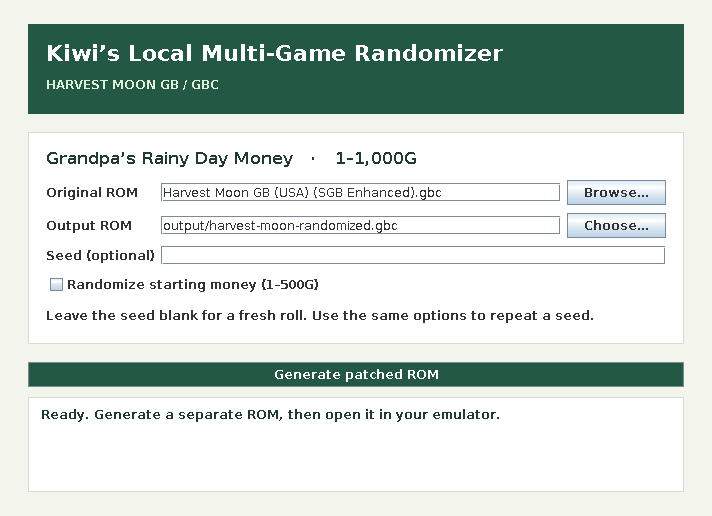
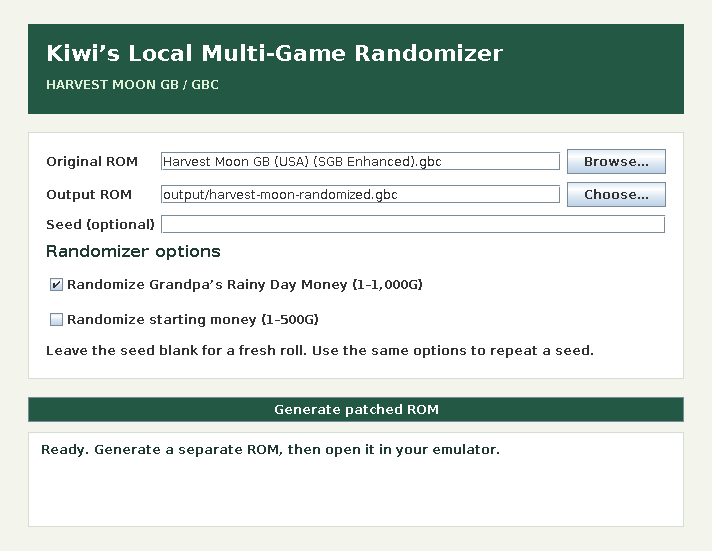
Make Harvest Moon randomization options independent

Changed region(s): [[0.0309, 0.031, 0.9579, 0.6512], [0.0309, 0.6822, 0.9579, 0.8372]]

diff --git a/java/test/kiwi/RandomizerTest.java b/java/test/kiwi/RandomizerTest.java
@@ -41,42 +41,56 @@ public final class RandomizerTest {
             check(expected.getMessage().contains("Unsupported ROM"), "wrong ROM message");
         }
         Path temp = Files.createTempDirectory("kiwi-java-test");
-        Path output = temp.resolve("test.gbc");
-        Path randomized = temp.resolve("randomized.gbc");
         try {
-            runFormTest(output, false);
-            check(hash(Files.readAllBytes(output)).equals(
[1 lines of base64/hex data omitted]
-            runFormTest(randomized, true);
-            check(hash(Files.readAllBytes(randomized)).equals(
[1 lines of base64/hex data omitted]
+            testOptionPair(temp, false, false, originalDigest);
+            testOptionPair(temp, false, true,
[1 lines of base64/hex data omitted]
+            testOptionPair(temp, true, false,
[1 lines of base64/hex data omitted]
+            testOptionPair(temp, true, true,
[1 lines of base64/hex data omitted]
             check(hash(HarvestMoon.patch(original, 945, 1)).equals(
[1 lines of base64/hex data omitted]
             check(hash(Files.readAllBytes(rom)).equals(originalDigest), "original untouched");
         } finally {
-            Files.deleteIfExists(output);
-            Files.deleteIfExists(randomized);
             Files.deleteIfExists(temp);
         }
         System.out.println("Java seed, ROM patch, and Swing form tests passed.");
     }
 
-    private static void runFormTest(Path output, boolean randomizeStartingMoney) throws Exception {
+    private static void testOptionPair(Path temp, boolean rainyDayMoney, boolean startingMoney,
+                                       String expectedDigest) throws Exception {
+        Path output = temp.resolve("test.gbc");
+        try {
+            runFormTest(output, rainyDayMoney, startingMoney);
+            check(hash(Files.readAllBytes(output)).equals(expectedDigest), "GUI output matches Python patch");
+        } finally {
+            Files.deleteIfExists(output);
+        }
+    }
+
+    private static void runFormTest(Path output, boolean randomizeRainyDayMoney, boolean randomizeStartingMoney)
+            throws Exception {
         AtomicReference<JButton> button = new AtomicReference<>();
         AtomicReference<JTextArea> result = new AtomicReference<>();
         SwingUtilities.invokeAndWait(() -> {
             JPanel form = new RandomizerApp.Form();
             find(form, JLabel.class, l -> l.getText().equals("Output ROM"), JTextField.class).setText(output.toString());
             find(form, JLabel.class, l -> l.getText().equals("Seed (optional)"), JTextField.class).setText("kiwi-demo");
-            JCheckBox checkbox = find(form, JCheckBox.class, b -> b.getText().startsWith("Randomize starting money"));
-            check(!checkbox.isSelected(), "starting money defaults to off");
-            if (randomizeStartingMoney) checkbox.doClick(0);
+            JCheckBox rainyDay = find(form, JCheckBox.class, b -> b.getText().startsWith("Randomize Grandpa"));
+            JCheckBox starting = find(form, JCheckBox.class, b -> b.getText().startsWith("Randomize starting money"));
+            check(rainyDay.isSelected(), "drawer randomization defaults to on");
+            check(!starting.isSelected(), "starting money randomization defaults to off");
+            if (!randomizeRainyDayMoney) rainyDay.doClick(0);
+            if (randomizeStartingMoney) starting.doClick(0);
             result.set(find(form, JTextArea.class, text -> true));
             button.set(find(form, JButton.class, b -> b.getText().equals("Generate patched ROM")));
             button.get().doClick(0);
         });
         String first = waitForResult(button.get(), result.get());
-        check(first.contains("945G") && first.contains("kiwi-demo"), "GUI shows seed and payout");
+        check(first.contains("kiwi-demo"), "GUI shows seed");
+        check(first.contains(randomizeRainyDayMoney ? "945G (randomized)" : "1000G (unchanged)"),
+                "GUI shows drawer payout and whether it is randomized");
         check(first.contains(randomizeStartingMoney ? "Starting money: 377G (randomized)"
                 : "Starting money: 500G (unchanged)"), "GUI shows starting money and whether it is randomized");
         SwingUtilities.invokeAndWait(() -> button.get().doClick(0));

diff --git a/java/src/kiwi/RandomizerApp.java b/java/src/kiwi/RandomizerApp.java
@@ -44,6 +44,7 @@ public final class RandomizerApp {
         private final JTextField source = new JTextField(36);
         private final JTextField destination = new JTextField(Paths.get("output", DEFAULT_FILENAME).toString(), 36);
         private final JTextField seed = new JTextField(36);
+        private final JCheckBox rainyDayMoney = new JCheckBox("Randomize Grandpa’s Rainy Day Money (1–1,000G)", true);
         private final JCheckBox startingMoney = new JCheckBox("Randomize starting money (1–500G)");
         private final JButton open = new JButton("Browse…");
         private final JButton save = new JButton("Choose…");
@@ -103,17 +104,20 @@ public final class RandomizerApp {
             panel.setBackground(Color.WHITE);
             panel.setBorder(BorderFactory.createCompoundBorder(BorderFactory.createLineBorder(BORDER),
                     new EmptyBorder(12, 14, 12, 14)));
-            JLabel feature = new JLabel("Grandpa’s Rainy Day Money   ·   1–1,000G");
+            JLabel feature = new JLabel("Randomizer options");
             feature.setFont(feature.getFont().deriveFont(Font.BOLD, 16f));
             feature.setForeground(INK);
-            panel.add(feature, across(0));
-            addField(panel, 1, "Original ROM", source, open);
-            addField(panel, 2, "Output ROM", destination, save);
-            addField(panel, 3, "Seed (optional)", seed, null);
+            addField(panel, 0, "Original ROM", source, open);
+            addField(panel, 1, "Output ROM", destination, save);
+            addField(panel, 2, "Seed (optional)", seed, null);
+            panel.add(feature, across(3));
+            rainyDayMoney.setOpaque(false);
+            rainyDayMoney.setToolTipText("Changes the one-time drawer reward. Unchecked: 1,000G.");
+            panel.add(rainyDayMoney, across(4));
             startingMoney.setOpaque(false);
-            startingMoney.setToolTipText("Changes the money you start with in a new game. Default: 500G.");
-            panel.add(startingMoney, across(4));
-            panel.add(new JLabel("Leave the seed blank for a fresh roll. Use the same options to repeat a seed."), across(5));
+            startingMoney.setToolTipText("Changes the money you start with in a new game. Unchecked: 500G.");
+            panel.add(startingMoney, across(5));
+            panel.add(new JLabel("Leave the seed blank for a fresh roll. Use the same options to repeat a seed."), across(6));
             open.addActionListener(e -> choose(false));
             save.addActionListener(e -> choose(true));
             return panel;
@@ -189,18 +193,20 @@ public final class RandomizerApp {
                 return;
             }
             String chosenSeed = seed.getText();
+            boolean randomizeRainyDayMoney = rainyDayMoney.isSelected();
             boolean randomizeStartingMoney = startingMoney.isSelected();
             setBusy(true);
             status("Validating and patching the ROM…", false);
             new SwingWorker<HarvestMoon.Result, Void>() {
                 @Override protected HarvestMoon.Result doInBackground() throws Exception {
-                    return HarvestMoon.generate(input, output, chosenSeed, randomizeStartingMoney);
+                    return HarvestMoon.generate(input, output, chosenSeed, randomizeRainyDayMoney, randomizeStartingMoney);
                 }
 
                 @Override protected void done() {
                     try {
                         HarvestMoon.Result saved = get();
                         status("Grandpa’s Rainy Day Money: " + saved.amount() + "G"
+                                + (randomizeRainyDayMoney ? " (randomized)" : " (unchanged)")
                                 + "\nStarting money: " + saved.startingMoney() + "G"
                                 + (randomizeStartingMoney ? " (randomized)" : " (unchanged)")
                                 + "\nSeed: " + saved.seed() + "\nSaved to: " + saved.output(), false);
@@ -220,7 +226,7 @@ public final class RandomizerApp {
         }
 
         private void setBusy(boolean busy) {
-            for (JComponent field : new JComponent[]{source, destination, seed, startingMoney, open, save, generate}) {
+            for (JComponent field : new JComponent[]{source, destination, seed, rainyDayMoney, startingMoney, open, save, generate}) {
                 field.setEnabled(!busy);
             }
         }

diff --git a/java/src/kiwi/HarvestMoon.java b/java/src/kiwi/HarvestMoon.java
@@ -15,6 +15,7 @@ public final class HarvestMoon {
     public static final String ROM_NAME = "Harvest Moon GB (USA) (SGB Enhanced).gbc";
[1 lines of base64/hex data omitted]
     private static final int ROM_SIZE = 1_048_576;
+    public static final int VANILLA_RAINY_DAY_MONEY = 1000;
     public static final int VANILLA_STARTING_MONEY = 500;
     // Immediate bytes of LD A,imm instructions writing the new game's balance
     // to SRAM $B8EF/$B8F0; the adjacent high byte is already cleared by the game.
@@ -43,8 +44,8 @@ public final class HarvestMoon {
         public int startingMoney() { return startingMoney; }
     }
 
-    public static Result generate(Path input, Path output, String seed, boolean randomizeStartingMoney)
-            throws IOException {
+    public static Result generate(Path input, Path output, String seed,
+                                  boolean randomizeRainyDayMoney, boolean randomizeStartingMoney) throws IOException {
         if (seed.isEmpty()) {
             byte[] token = new byte[16];
             new SecureRandom().nextBytes(token);
@@ -53,7 +54,7 @@ public final class HarvestMoon {
         if (!Files.isRegularFile(input) || Files.size(input) != ROM_SIZE) {
             throw new IOException("Select the unmodified 1 MiB " + ROM_NAME + " file.");
         }
-        int amount = roll(seed);
+        int amount = randomizeRainyDayMoney ? roll(seed) : VANILLA_RAINY_DAY_MONEY;
         int startingMoney = randomizeStartingMoney ? rollStartingMoney(seed) : VANILLA_STARTING_MONEY;
         byte[] patched = patch(Files.readAllBytes(input), amount, startingMoney);
         Path target = output.toAbsolutePath().normalize();
@@ -64,7 +65,7 @@ public final class HarvestMoon {
     }
 
     static int roll(String seed) {
-        return new PythonSeedRandom(seed).oneTo(1000);
+        return new PythonSeedRandom(seed).oneTo(VANILLA_RAINY_DAY_MONEY);
     }
 
     static int rollStartingMoney(String seed) {
@@ -79,7 +80,7 @@ public final class HarvestMoon {
         if (startingMoney < 1 || startingMoney > VANILLA_STARTING_MONEY) {
             throw new IllegalArgumentException("Starting money must be 1 to 500G.");
         }
-        if (amount < 1 || amount > 1000) {
+        if (amount < 1 || amount > VANILLA_RAINY_DAY_MONEY) {
             throw new IllegalArgumentException("The payout must be 1 to 1,000G.");
         }
         if (source.length != ROM_SIZE || !hex(digest("SHA-256", source)).equals(ROM_HASH)) {

diff --git a/tests/test_harvest_moon_gbc.py b/tests/test_harvest_moon_gbc.py
@@ -83,6 +83,25 @@ class PatchTests(unittest.TestCase):
             self.assertEqual(int.from_bytes(patched[GLOBAL_CHECKSUM], "big"),
                              sum(patched[:0x14E] + patched[0x150:]) & 0xFFFF)
 
+    def test_cli_options_are_independent(self):
+        original = ROM.read_bytes()
+        with tempfile.TemporaryDirectory() as tmp:
+            for drawer in (False, True):
+                for starting in (False, True):
+                    with self.subTest(drawer=drawer, starting=starting):
+                        output = Path(tmp) / f"drawer-{drawer}-start-{starting}.gbc"
+                        cli = [sys.executable, "-m", "randomizer.harvest_moon_gbc", str(ROM), str(output),
+                               "--seed", "kiwi-demo", "--randomize-rainy-day-money" if drawer
+                               else "--no-randomize-rainy-day-money"]
+                        if starting:
+                            cli.append("--randomize-starting-money")
+                        subprocess.run(cli, cwd=ROOT, check=True, capture_output=True, text=True)
+                        expected = patch_rainy_day_money(original, 945 if drawer else 1000,
+                                                        377 if starting else 500)
+                        self.assertEqual(output.read_bytes(), expected)
+                        if not drawer and not starting:
+                            self.assertEqual(output.read_bytes(), original)
+
     def test_cli_reproduces_output_and_does_not_overwrite(self):
         with tempfile.TemporaryDirectory() as tmp:
             first, second = [Path(tmp) / f"{i}.gbc" for i in range(2)]

diff --git a/randomizer/harvest_moon_gbc.py b/randomizer/harvest_moon_gbc.py
@@ -61,12 +61,14 @@ def main(argv: list[str] | None = None) -> int:
     parser.add_argument("rom", type=Path, help="unmodified input ROM")
     parser.add_argument("output", type=Path, help="new ROM path; must not already exist")
     parser.add_argument("--seed", help="reproduce a previous roll; defaults to a fresh seed")
+    parser.add_argument("--randomize-rainy-day-money", action=argparse.BooleanOptionalAction, default=True,
+                        help="roll 1 to 1,000G for the drawer (default: enabled)")
     parser.add_argument("--randomize-starting-money", action="store_true",
                         help="roll 1 to 500G for new games instead of the default 500G")
     args = parser.parse_args(argv)
 
     seed = args.seed if args.seed is not None else secrets.token_hex(16)
-    amount = roll_rainy_day_money(seed)
+    amount = roll_rainy_day_money(seed) if args.randomize_rainy_day_money else MAX_GOLD
     starting_money = roll_starting_money(seed) if args.randomize_starting_money else VANILLA_STARTING_MONEY
     try:
         patched = patch_rainy_day_money(args.rom.read_bytes(), amount, starting_money)

diff --git a/README.md b/README.md
@@ -1,6 +1,6 @@
 # Kiwi’s Local Multi-Game Randomizer
 
-The first supported check is **Grandpa’s Rainy Day Money** in Harvest Moon GB/GBC. The drawer awards a seeded amount from **1 to 1,000G**, and the in-game receipt shows the same amount. It still pays only once, regardless of house expansion. Starting money can also be randomized from **1 to 500G** for new games. This is a local ROM patcher, not yet a multiworld client.
+The first supported check is **Grandpa’s Rainy Day Money** in Harvest Moon GB/GBC. When randomized, the drawer awards a seeded amount from **1 to 1,000G**, and the in-game receipt shows the same amount. It still pays only once, regardless of house expansion. Starting money can also be randomized from **1 to 500G** for new games. This is a local ROM patcher, not yet a multiworld client.
 
 ## Java desktop GUI
 
@@ -14,7 +14,10 @@ java -cp build/classes kiwi.RandomizerApp
 ```
 
 1. Choose the original ROM and a new `.gbc` output path. The app preselects the supported ROM if it finds it in the current directory.
-2. Leave **Seed** blank for a fresh roll or enter an existing seed. Check **Randomize starting money (1–500G)** to roll the new-game balance; unchecked keeps the original 500G. `kiwi-demo` gives 945G from the drawer and, if enabled, 377G at the start.
+2. Leave **Seed** blank for a fresh roll or enter an existing seed. Choose the options independently:
+   - **Randomize Grandpa’s Rainy Day Money (1–1,000G)** is checked by default. Uncheck it for the original **1,000G** drawer reward.
+   - **Randomize starting money (1–500G)** is unchecked by default. Unchecked keeps the original **500G** balance for new games.
+   - With both checked, `kiwi-demo` gives **377G** at the start and **945G** from the drawer. With both unchecked, the output is an unchanged copy of the original ROM.
 3. Click **Generate patched ROM**. The app displays the amount, the seed, and where it saved the new ROM. Open that ROM in your emulator.
 
 The desktop app does not need Python. It verifies the ROM revision and never overwrites an existing file. [See the GUI](docs/harvest-moon-gbc/desktop-gui.png).
@@ -46,7 +49,7 @@ python -m randomizer.harvest_moon_gbc \
 
 Load the new ROM in your emulator and start a new game. After the opening tour, face the drawer on the right of the farmhouse bed and press **A**. An existing save in which you collected the stash will not get another payout.
 
-Add `--randomize-starting-money` to roll the same starting balance as the Java GUI. This option only affects a **new game**. See the [emulator verification](docs/harvest-moon-gbc/starting-money/README.md).
+Add `--no-randomize-rainy-day-money` to retain the original drawer reward, or `--randomize-starting-money` to roll the same starting balance as the Java GUI. The starting-money option only affects a **new game**. See the [emulator verification](docs/harvest-moon-gbc/starting-money/README.md).
 
 Omit `--seed` for a fresh roll. The command prints the seed and amount. Reuse the seed with the original ROM and a new output path to reproduce that roll. It never overwrites an existing file. Only the exact [verified ROM revision](docs/harvest-moon-gbc/rainy-day-money/README.md#rom-and-references) is supported.
 
